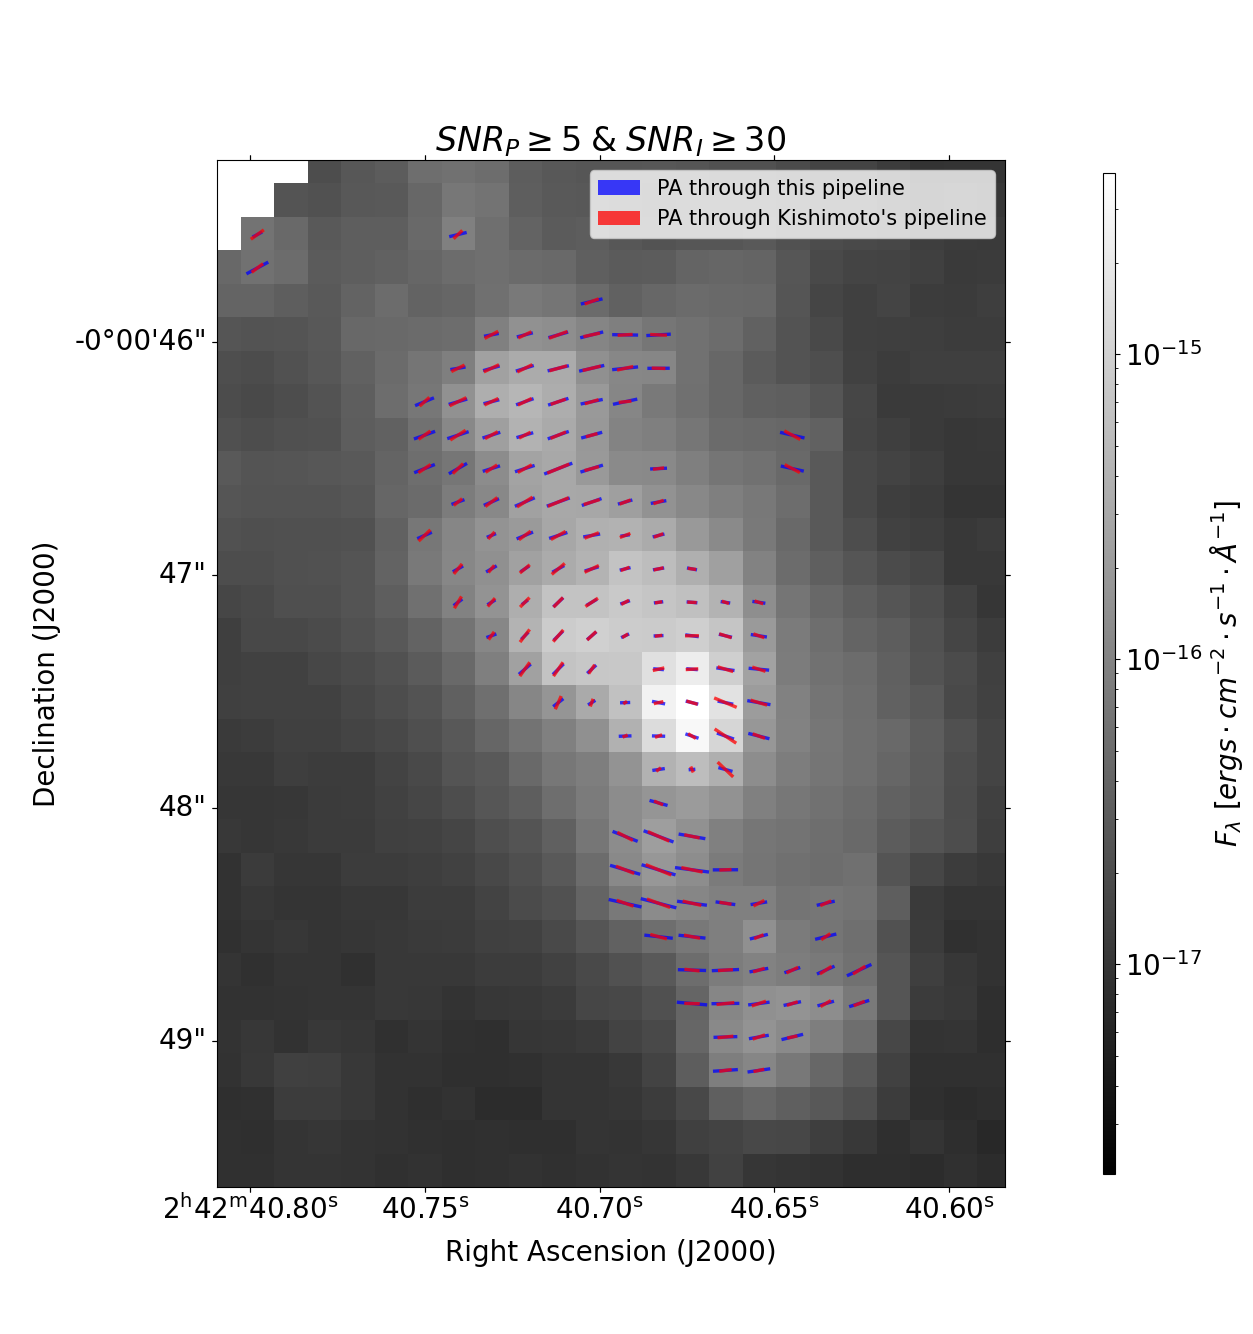
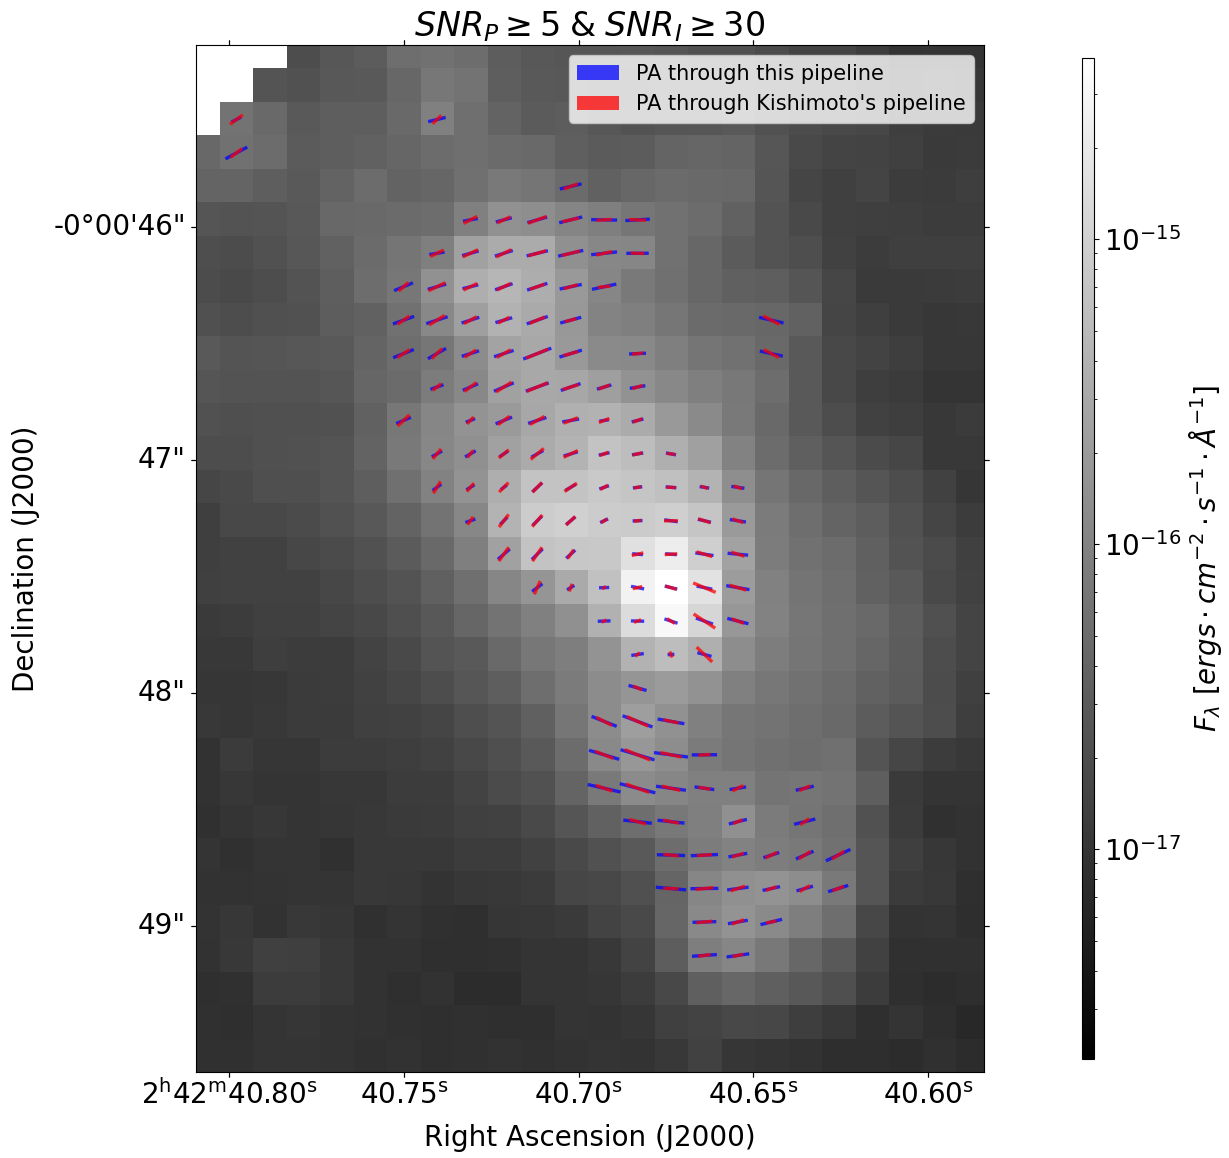
add analysis of MRK231

diff --git a/src/FOC_reduction.py b/src/FOC_reduction.py
@@ -18,12 +18,12 @@ from astropy.wcs import WCS
 
 ##### User inputs
 ## Input and output locations
-globals()['data_folder'] = "../data/NGC1068_x274020/"
-globals()['infiles'] = ['x274020at_c0f.fits','x274020bt_c0f.fits','x274020ct_c0f.fits',
-   'x274020dt_c0f.fits','x274020et_c0f.fits','x274020ft_c0f.fits',
-   'x274020gt_c0f.fits','x274020ht_c0f.fits','x274020it_c0f.fits']
-#psf_file = 'NGC1068_f253m00.fits'
-globals()['plots_folder'] = "../plots/NGC1068_x274020/"
+#globals()['data_folder'] = "../data/NGC1068_x274020/"
+#globals()['infiles'] = ['x274020at_c0f.fits','x274020bt_c0f.fits','x274020ct_c0f.fits',
+#   'x274020dt_c0f.fits','x274020et_c0f.fits','x274020ft_c0f.fits',
+#   'x274020gt_c0f.fits','x274020ht_c0f.fits','x274020it_c0f.fits']
+##psf_file = 'NGC1068_f253m00.fits'
+#globals()['plots_folder'] = "../plots/NGC1068_x274020/"
 
 #globals()['data_folder'] = "../data/IC5063_x3nl030/"
 #globals()['infiles'] = ['x3nl0301r_c0f.fits','x3nl0302r_c0f.fits','x3nl0303r_c0f.fits']
@@ -80,6 +80,13 @@ globals()['plots_folder'] = "../plots/NGC1068_x274020/"
 #globals()['infiles'] = ['x3nl0201r_c0f.fits','x3nl0202r_c0f.fits','x3nl0203r_c0f.fits']
 #globals()['plots_folder'] = "../plots/MKN78_x3nl020/"
 
+globals()['data_folder'] = "../data/MRK231_x4qr010/"
+globals()['infiles'] = ['x4qr010ar_c0f.fits', 'x4qr010br_c0f.fits', 'x4qr010dr_c0f.fits',
+   'x4qr010er_c0f.fits', 'x4qr010gr_c0f.fits', 'x4qr010hr_c0f.fits',
+   'x4qr010jr_c0f.fits', 'x4qr010kr_c0f.fits', 'x4qr0104r_c0f.fits',
+   'x4qr0105r_c0f.fits', 'x4qr0107r_c0f.fits', 'x4qr0108r_c0f.fits']
+globals()['plots_folder'] = "../plots/MRK231_x4qr010/"
+
 #globals()['data_folder'] = "../data/3C273_x0u20/"
 #globals()['infiles'] = ['x0u20101t_c0f.fits','x0u20102t_c0f.fits','x0u20103t_c0f.fits',
 #   'x0u20104t_c0f.fits','x0u20105t_c0f.fits','x0u20106t_c0f.fits',
@@ -128,7 +135,7 @@ def main():
     # Data binning
     rebin = True
     if rebin:
-        pxsize = 0.10
+        pxsize = 0.05
         px_scale = 'arcsec'         #pixel, arcsec or full
         rebin_operation = 'sum'     #sum or average
     # Alignement
@@ -136,17 +143,17 @@ def main():
     display_data = False
     # Smoothing
     smoothing_function = 'combine'  #gaussian_after, weighted_gaussian_after, gaussian, weighted_gaussian or combine
-    smoothing_FWHM = 0.20           #If None, no smoothing is done
+    smoothing_FWHM = 0.10           #If None, no smoothing is done
     smoothing_scale = 'arcsec'      #pixel or arcsec
     # Rotation
     rotate_stokes = True            #rotation to North convention can give erroneous results
     rotate_data = False             #rotation to North convention can give erroneous results
     # Final crop
     crop = False                    #Crop to desired ROI
-    final_display = False
+    final_display = True
     # Polarization map output
-    figname = 'NGC1068_FOC'         #target/intrument name
-    figtype = '_combine_FWHM020'    #additionnal informations
+    figname = 'MRK231_FOC'         #target/intrument name
+    figtype = '_combine_FWHM010'    #additionnal informations
     SNRp_cut = 5.    #P measurments with SNR>3
     SNRi_cut = 50.   #I measurments with SNR>30, which implies an uncertainty in P of 4.7%.
     step_vec = 1    #plot all vectors in the array. if step_vec = 2, then every other vector will be plotted

diff --git a/src/lib/reduction.py b/src/lib/reduction.py
@@ -72,7 +72,8 @@ globals()['sigma_theta'] = np.array([3.*np.pi/180., 3.*np.pi/180., 3.*np.pi/180.
 
 def princ_angle(ang):
     """
-    Return the principal angle in the 0° to 360° quadrant.
+    Return the principal angle in the 0° to 180° quadrant.
+    as PA is always defined at p/m 180°.
     """
     if type(ang) != np.ndarray:
         A = np.array([ang])

diff --git a/data/MRK231_x4qr010/README.md b/data/MRK231_x4qr010/README.md
@@ -1,0 +1,11 @@
+Observation data
+Instrument : FOC
+Proposal ID : 6444
+Target name : MRK 231
+Dataset : X4QR010
+
+Gallagher et al. 1998 Flux (3475A) ?? ??                        PD: 15.3%       PA: 97.8°       Aperture: 0.47"
+"Circular apertures with radii from 3 (0.043") to 33 pixels (0.469") all yield polarizations of P ~ 15:5% at PA ~ 99°"
+
+bin 0.05"		Flux (3475A): 11.87±0.01e-16ergs/cm²/s/A		PD: 10.6±0.2%	PA: 83.2±0.6°	Aperture: 0.5"
+bin 0.10"		Flux (3475A): 7.053±0.01e-16ergs/cm²/s/A		PD: 15.8±0.2%	PA: 79.8±0.3°	Aperture: 0.5"
